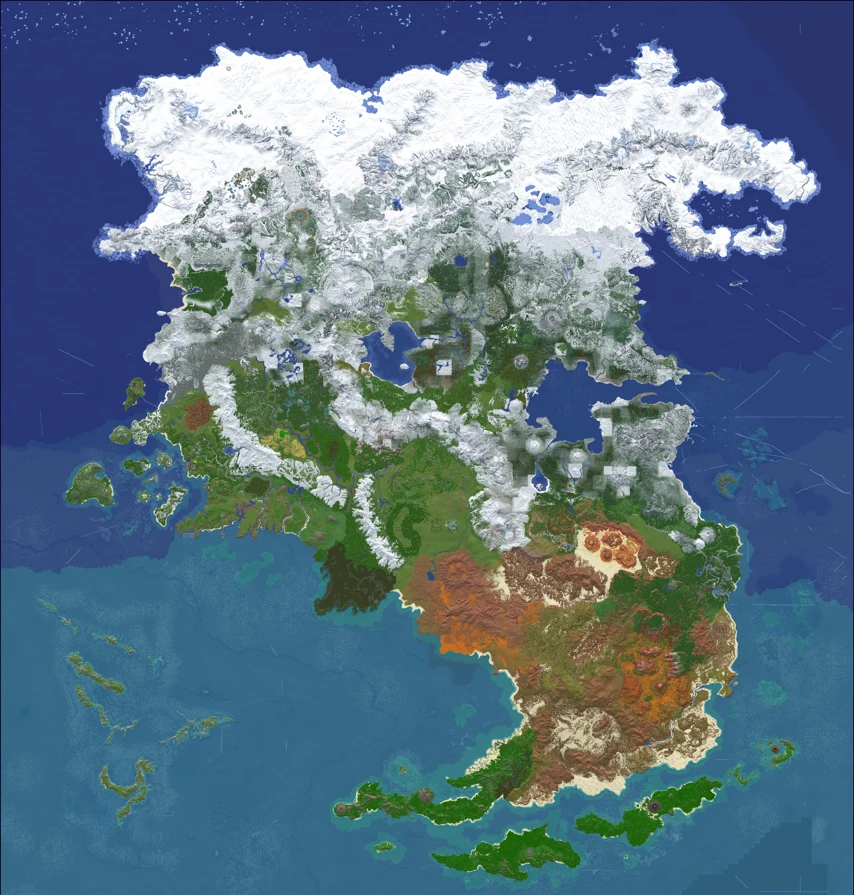
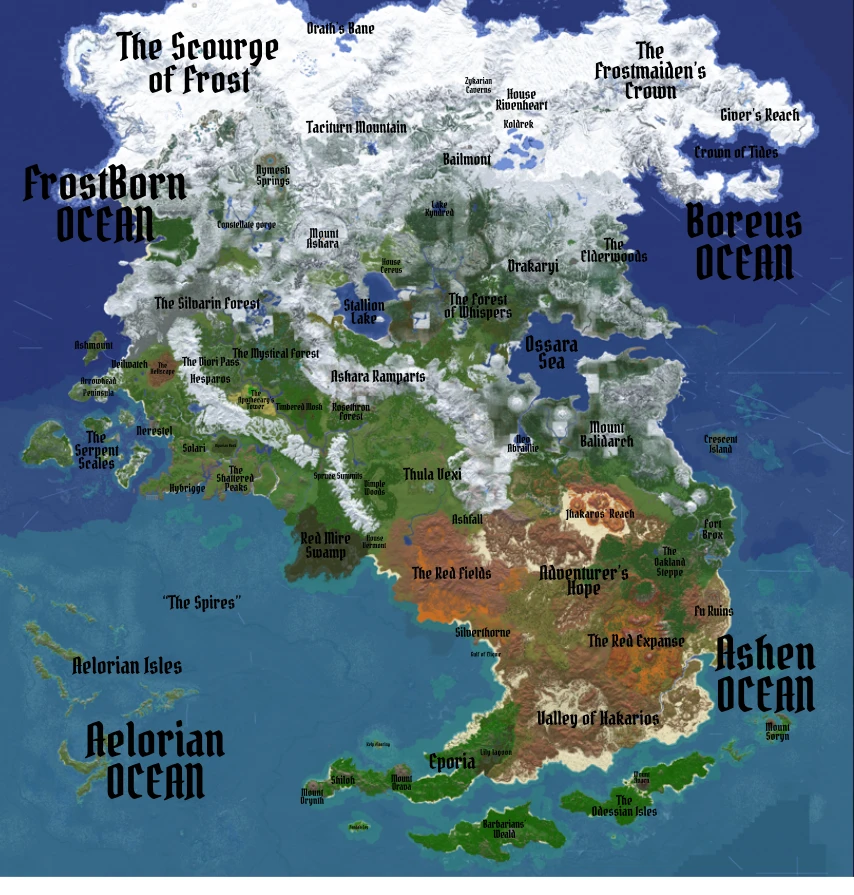
Use the labelled world map, show pins as dots, and pin Neo Abrallie
- New world map image with place names written on it
- Pins are dots; a pin's name shows on hover, keyboard focus or a first
  tap (a second tap opens the page), and always in pin editing mode
- Neo Abrallie pinned at its label (map_x 60, map_y 49.5)

Claude-Session: https://claude.ai/code/session_012pD2useRZpTrTfTm1Gthrx

diff --git a/assets/css/site.css b/assets/css/site.css
@@ -550,6 +550,14 @@ button { font: inherit; color: inherit; }
 .prose .world-map__pin:hover, .prose .world-map__pin:focus-visible { z-index: 2; }
 .world-map__pin:hover .world-map__dot, .world-map__pin:focus-visible .world-map__dot { transform: scale(1.25); }
 .world-map__pin:hover .world-map__label, .world-map__pin:focus-visible .world-map__label { color: var(--gilt); border-color: rgba(239, 205, 151, 0.45); }
+/* the map already has names on it, so pins are dots; a pin's name shows on hover,
+   keyboard focus or a first tap, and always while editing pins */
+.world-map__label { opacity: 0; visibility: hidden; transition: opacity .15s, visibility 0s .15s; }
+.world-map__pin:hover .world-map__label, .world-map__pin:focus-visible .world-map__label,
+.world-map__pin.is-active .world-map__label, .world-map__canvas.is-editing-pins .world-map__label {
+  opacity: 1; visibility: visible; transition: opacity .15s;
+}
+.prose .world-map__pin.is-active { z-index: 2; }
 .world-map__coords {
   position: absolute; left: .6rem; bottom: .6rem; margin: 0; padding: .3rem .6rem; border-radius: 6px;
   font-size: .9rem; color: var(--ink); background: rgba(15, 10, 32, 0.9); border: 1px solid var(--line); pointer-events: none; z-index: 3;

diff --git a/_includes/world-map.html b/_includes/world-map.html
@@ -33,7 +33,7 @@
     <div data-pin-changes><p class="pin-editor__empty">No pins moved yet.</p></div>
     <p class="pin-editor__note">Nothing is saved automatically. For each place you moved, click <strong>Edit file</strong>, replace its <code>map_x</code> and <code>map_y</code> lines with the copied ones (or add them), and commit.</p>
   </div>
-  <figcaption>Click a name to open its page. Zoom with the buttons, the mouse wheel or a pinch, and drag to move around. Click anywhere else on the map to see that spot's map coordinates.</figcaption>
+  <figcaption>Point at or tap a dot to see its name, and click it to open its page. Zoom with the buttons, the mouse wheel or a pinch, and drag to move around. Click anywhere else on the map to see that spot's map coordinates.</figcaption>
 </figure>
 {%- else %}
 <div class="empty-state"><img src="{{ '/assets/img/emblem.png' | relative_url }}" alt="" width="44" height="44"><p>The world map is still being drawn.</p></div>

diff --git a/assets/js/site.js b/assets/js/site.js
@@ -262,6 +262,17 @@
     }, true);
     window.addEventListener("resize", function () { applyView(false); });
 
+    /* ---------- Touch: the first tap on a pin shows its name, the second opens its page ---------- */
+    var lastPointer = "mouse";
+    mapCanvas.addEventListener("pointerdown", function (e) { lastPointer = e.pointerType; }, true);
+    mapStage.addEventListener("click", function (e) {
+      var pin = e.target.closest(".world-map__pin");
+      mapStage.querySelectorAll(".world-map__pin.is-active").forEach(function (p) { if (p !== pin) p.classList.remove("is-active"); });
+      if (!pin || editingPins || lastPointer !== "touch" || pin.classList.contains("is-active")) return;
+      e.preventDefault();
+      pin.classList.add("is-active");
+    });
+
     /* ---------- Pin editing mode (open the page with ?edit-pins) ---------- */
     var pinEditor = document.querySelector("[data-pin-editor]");
     if (editingPins && pinEditor) {

diff --git a/EDITING.md b/EDITING.md
@@ -127,6 +127,8 @@ The map on Locations & Landmarks is `assets/img/world-map.webp`.
 2. To pin a location, open the Locations & Landmarks page and click its spot on the map. Zoom in first for a more exact spot; the numbers stay correct at any zoom. The bottom corner shows `map_x` and `map_y` for that spot.
 3. Put those two numbers in the location's file (`map_x: 42.5` and `map_y: 18.3`) and commit. Its name now appears on the map and links to its page.
 
+**Pins are dots.** The map image already has place names written on it, so each pin is a small dot; its name appears when you point at it (or tap it once on a phone, then tap again to open the page). Place a pin right on the place's name or spot on the map.
+
 **Pin editing mode:** open the Locations & Landmarks page with `?edit-pins` at the end of its address (`https://smpequinox.github.io/locations-and-landmarks/?edit-pins`). Pins turn orange and can be dragged; to pin a place that has no pin yet, choose it from the list under the map, then click its spot. A list shows each moved place with its new `map_x` / `map_y`, a **Copy** button and an **Edit file** link: paste the lines into that file and commit. Nothing saves until you do.
 
 Uploading a new map with the same file name keeps all the pins. Re-check them if the new map's shape or borders changed.

diff --git a/_lore/neo-abrallie.md b/_lore/neo-abrallie.md
@@ -2,6 +2,8 @@
 title: "Neo Abrallie"
 category: locations
 place_type: Capital
+map_x: 60
+map_y: 49.5
 summary: "The capital city of Arbitus."
 status: Public
 facts:
